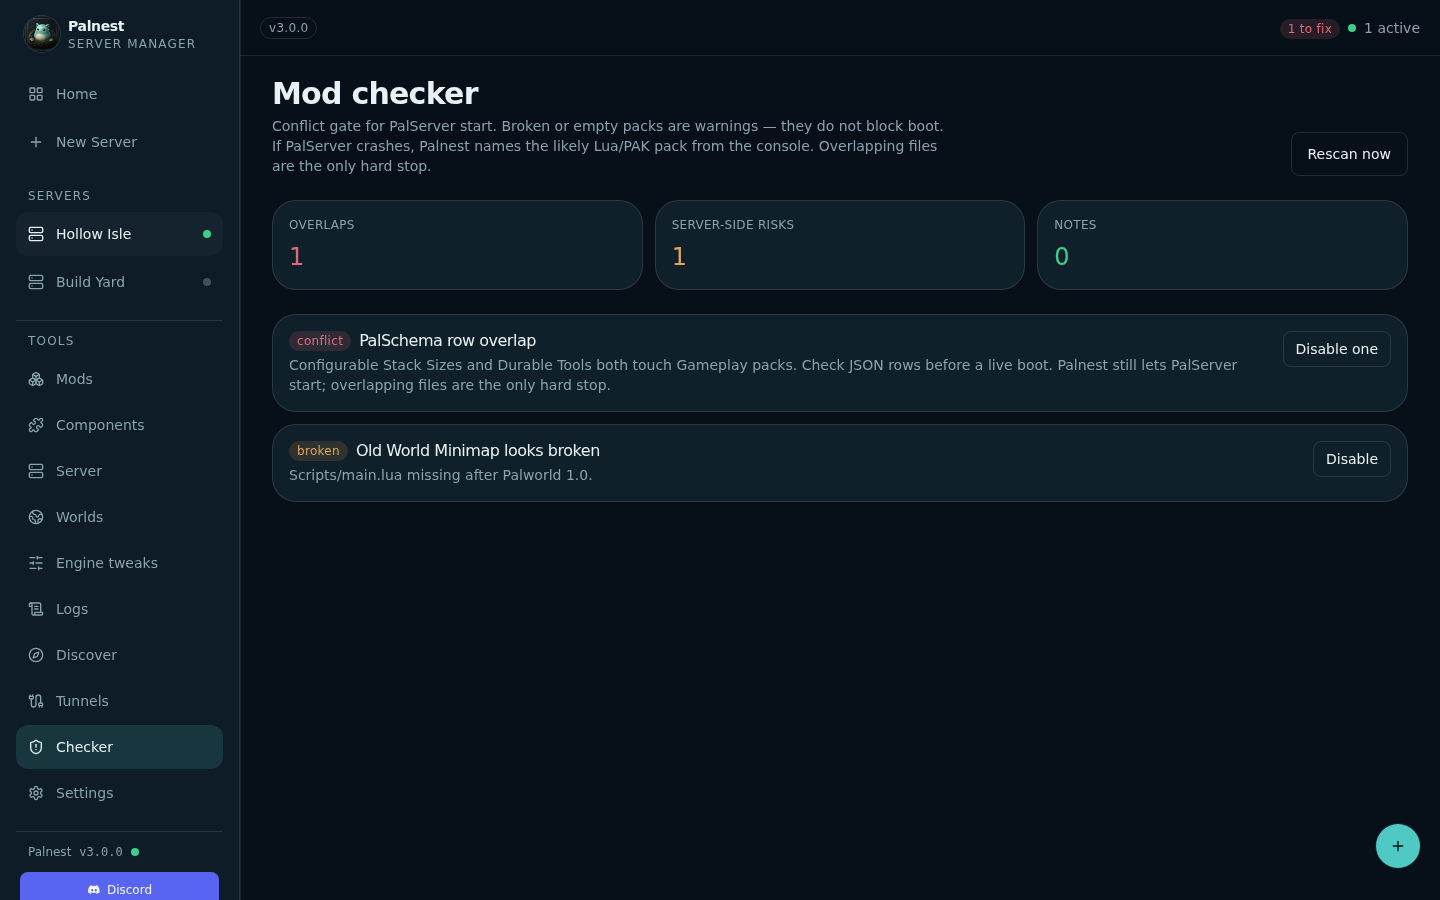
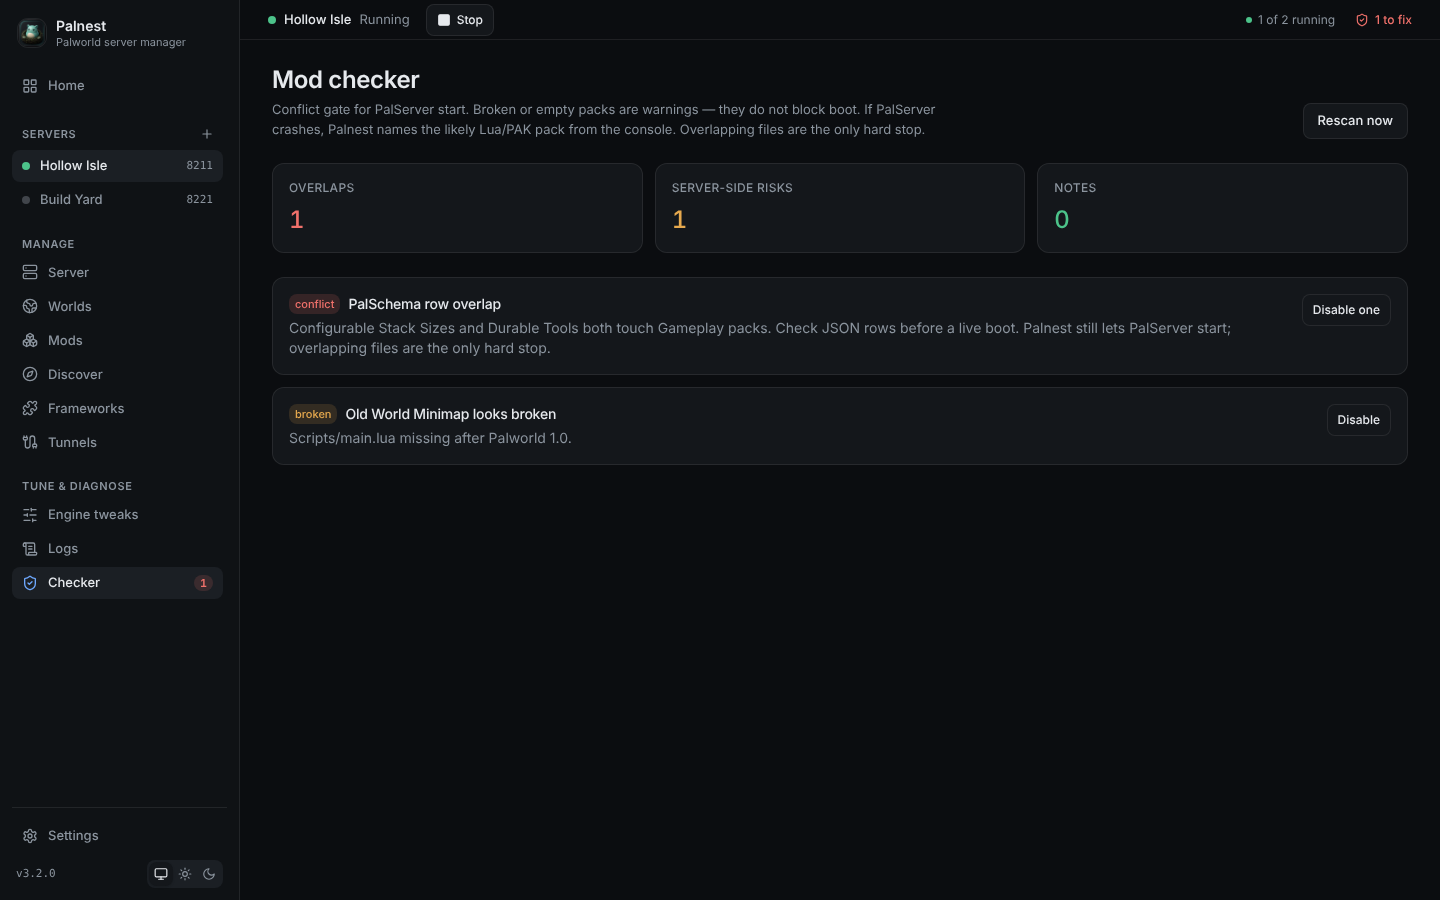
Update README and screenshots for the 3.2.0 interface
Claude-Session: https://claude.ai/code/session_01J4FSGSmEzgZxMeHr1qZ8Sw

diff --git a/README.md b/README.md
@@ -4,9 +4,20 @@
 
 [Download latest release](https://github.com/Saiki1997/Palnest/releases/latest)
 
-![Dashboard](docs/dashboard.png)
+![Overview](docs/dashboard.png)
 
-Palnest runs PalServer from the dashboard, edits `PalWorldSettings.ini` / `WorldOption.sav` / `Engine.ini`, installs mods from Nexus, Steam Workshop, and CurseForge, and manages UE4SS, PalSchema, OptiScaler, and ReShade. Changes stay draft until you press **Save**.
+Palnest runs PalServer from the Overview, edits `PalWorldSettings.ini` / `WorldOption.sav` / `Engine.ini`, installs mods from Nexus, Steam Workshop, and CurseForge, and manages UE4SS, PalSchema, OptiScaler, and ReShade. Changes stay draft until you press **Save**.
+
+## What's new in 3.2.0
+
+- **New interface.** Graphite dark theme plus a light theme that follows Windows (switch it at the bottom of the sidebar). Grouped sidebar with each server's status and port, and Start / Stop for the selected server in the top bar on every page.
+- **Real data only.** The Overview, console, and logs show only what Palnest measures: real server CPU %, your PC's actual RAM, disk free, and tunnel addresses read from the playit / PortWarp agent. No sample lines or placeholder numbers.
+- **Fixes.** Links in mod descriptions open in your browser, changes made right before closing are saved, and Palnest uses less CPU while a server runs.
+- **Smaller.** About 13,000 lines of unused code and 25 unused packages removed.
+
+Full notes: [Releases](https://github.com/Saiki1997/Palnest/releases/latest).
+
+![Light theme](docs/dashboard-light.png)
 
 ---
 
@@ -48,23 +59,24 @@ Extract the `Palnest` folder and run `Palnest.exe` (or `Launch Palnest.cmd`). Ke
 
 1. Pick **Server only**, **Client only**, or **Client + server**.
 2. Browse to the Palworld game folder and/or PalServer folder. Empty is fine — you can set them later in Settings.
-3. **Enter the world**, or **Load sample world** to try Palnest with demo dens, players, and guilds.
+3. **Enter the world**, or **Load sample world** to try Palnest with demo servers, players, and guilds.
 
-Mode can be changed later in **Settings**. Client-only hides server tools (Server, Worlds, Tunnels). Server-only hides ReShade and OptiScaler.
+Sample worlds only exist to explore the app; real servers always show live numbers. Mode can be changed later in **Settings**. Client-only hides server tools (Server, Worlds, Tunnels). Server-only hides ReShade and OptiScaler.
 
 ---
 
 ## How to use
 
-### Dashboard
+### Overview
 
-![Dashboard node cards](docs/dashboard.png)
+![Overview](docs/dashboard.png)
 
-Each den is a node card: start, stop, restart, clone, delete, CPU / RAM, player count, and join info.
+The home page. The top row shows servers running, host CPU, memory, and free disk. Each server gets a card with its join address (one click to copy), players, uptime, ports, live CPU / RAM, and start, stop, restart, players, backups, clone, and delete.
 
-- **Start all / Stop all** for the fleet
+- **New server** and **Import server** (bring an existing PalServer world along, nothing is copied or moved)
+- **Start all / Stop all** for the fleet, plus a **Firewall** helper
 - **Check for updates** compares your PalServer build to the latest Steam dedicated build. **Update** runs SteamCMD
-- Clone copies the den (new id). Delete asks you to type the name first
+- Clone copies the server (new id). Delete asks you to type the name first
 
 ---
 
@@ -72,7 +84,7 @@ Each den is a node card: start, stop, restart, clone, delete, CPU / RAM, player 
 
 ![Server ops](docs/server-ops.png)
 
-Scheduled restart (hourly / daily clock), crash watchdog (auto-restart with a cap), start / stop / restart this den.
+Scheduled restart (hourly / daily clock), crash watchdog (auto-restart with a cap), start / stop / restart this server.
 
 ---
 
@@ -103,7 +115,7 @@ Same editor lives under **Worlds → INI**.
 
 ![Guilds](docs/server-guilds.png)
 
-Delete a guild, add a member (player id), remove a member. Save writes the den files.
+Delete a guild, add a member (player id), remove a member. Save writes the server files.
 
 ---
 
@@ -111,7 +123,7 @@ Delete a guild, add a member (player id), remove a member. Save writes the den f
 
 ![Instance](docs/server-instance.png)
 
-Name, ports, community flag, public IP, RCON port, install path, launch args for this den only.
+Name, ports, community flag, public IP, RCON port, install path, launch args for this server only.
 
 ---
 
@@ -123,7 +135,7 @@ Tabs for PalServer, Palnest, RCON, REST, and crash. Search, copy, export. Consol
 
 ---
 
-### Optimize / Engine.ini
+### Engine tweaks (`Engine.ini`)
 
 ![Engine.ini tweaks](docs/optimize.png)
 
@@ -179,7 +191,7 @@ Missing-side banners (**server missing** / **client missing**) only show in **cl
 
 ![Worlds](docs/worlds.png)
 
-List dens, clone, delete (type the name), open folder.
+List worlds, clone, delete (type the name), open folder.
 
 ![Backups](docs/worlds-backups.png)
 
@@ -195,7 +207,7 @@ Inspect `WorldOption.sav` / `Level.sav`, export JSON, write a patched sav.
 
 ![Tunnels](docs/tunnels.png)
 
-Palnest looks for **playit.gg** and **PortWarp** on disk. If the agent is missing, **Download** is shown. Start / stop from here. Join host is copied to the dashboard.
+Palnest looks for **playit.gg** and **PortWarp** on disk. If the agent is missing, **Download** is shown. Start / stop from here. The join host from the agent appears on the server's card in the Overview.
 
 ---
 
@@ -203,7 +215,7 @@ Palnest looks for **playit.gg** and **PortWarp** on disk. If the agent is missin
 
 ![Settings](docs/settings.png)
 
-Mode, install paths, locale, capture console, Discord webhook, API keys (Nexus, CurseForge, GitHub PAT). **Export Palnest.json** / **Import Palnest.json** moves dens, mods, and keys between PCs.
+Mode, theme, install paths, locale, capture console, Discord webhook, API keys (Nexus, CurseForge, GitHub PAT). **Export Palnest.json** / **Import Palnest.json** moves servers, mods, and keys between PCs.
 
 ---
 
@@ -219,11 +231,11 @@ UE4SS vs PalSchema vs PAK mismatches, missing frameworks, version notes. Warning
 
 1. Install Palnest and PalServer (and Palworld if you play on the same box)
 2. Pick **Client + server**, set both folders
-3. Create a den on the dashboard (or import an existing PalServer world)
+3. Create a server on the Overview (or import an existing PalServer world)
 4. Set ports, community, RCON password → **Save**
 5. Install UE4SS, then PalSchema if you need JSON mods
 6. Discover a pack → Files → install
-7. Start the den. Copy the join IP / tunnel host
+7. Start the server. Copy the join IP / tunnel host
 8. MOTD + RCON on Players. Backups on Worlds
 
 ---
